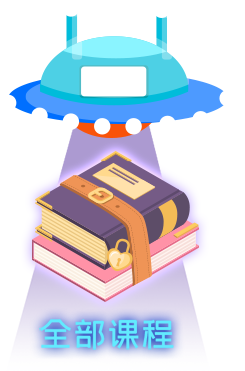
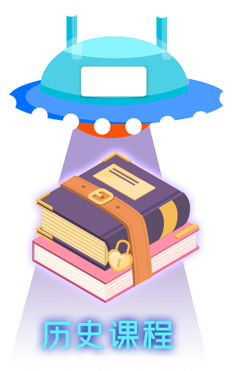
周末游戏加金币已到游戏内部加， 全部课程改为历史课程

diff --git a/cheerz/js/zhoumo-yx.js b/cheerz/js/zhoumo-yx.js
@@ -13,12 +13,13 @@ function startgame() {
 	var gamepara = localStorage.getItem("gpara");
 	glid = localStorage.getItem("glid");
 	gurl = localStorage.getItem("gurl");
+	addcoin(glid, gurl);
 
 	console.log(glid + " " + gurl);
 	// console.log("好饿的哈利 json string :", gamepara);
-	
+
 	var json = JSON.parse(gamepara);
-	if(json) {
+	if (json) {
 		worddatas = json;
 		wordcount = worddatas.length;
 	}
@@ -268,4 +269,14 @@ function leftsec(sec) {
 	leftm = leftm < 10 ? "0" + leftm : leftm;
 	lefts = lefts < 10 ? "0" + lefts : lefts;
 	return leftm + ":" + lefts; //返回倒计时的字符串
+}
+
+function addcoin(lid, url) {
+	// 加金币
+	var starttime = localStorage.getItem("gstart");
+	if(!starttime) return;
+	var cha = url + "_lid" + lid + "_" + starttime;
+	var coin = 20;
+	var memo = "_add" + coin;
+	addcointoserv(coin, cha, memo);
 }

diff --git a/cheerz/js/zhoumo-yx-sjss.js b/cheerz/js/zhoumo-yx-sjss.js
@@ -14,6 +14,7 @@ function startgame() {
 	var gamepara = localStorage.getItem("gpara");
 	glid = localStorage.getItem("glid");
 	gurl = localStorage.getItem("gurl");
+	addcoin(glid, gurl);
 
 	// console.log("神箭手彼德 json string :", gamepara);
 	
@@ -254,4 +255,14 @@ function leftsec(sec) {
 	leftm = leftm < 10 ? "0" + leftm : leftm;
 	lefts = lefts < 10 ? "0" + lefts : lefts;
 	return leftm + ":" + lefts; //返回倒计时的字符串
+}
+
+function addcoin(lid, url) {
+	// 加金币
+	var starttime = localStorage.getItem("gstart");
+	if(!starttime) return;
+	var cha = url + "_lid" + lid + "_" + starttime;
+	var coin = 20;
+	var memo = "_add" + coin;
+	addcointoserv(coin, cha, memo);
 }

diff --git a/cheerz/js/zhoumo-yx-ddp.js b/cheerz/js/zhoumo-yx-ddp.js
@@ -12,6 +12,7 @@ function startgame() {
 	var gamepara = localStorage.getItem("gpara");
 	glid = localStorage.getItem("glid");
 	gurl = localStorage.getItem("gurl");
+	addcoin(glid, gurl);
 
 	// console.log("魔法对对碰 json string :", gamepara);
 
@@ -334,4 +335,14 @@ function endgame() {
 	console.log("关闭游戏");
 	// jump 返回时无法重新加载
 	// jump("record", "zhoumo-yx-end.html");
+}
+
+function addcoin(lid, url) {
+	// 加金币
+	var starttime = localStorage.getItem("gstart");
+	if(!starttime) return;
+	var cha = url + "_lid" + lid + "_" + starttime;
+	var coin = 20;
+	var memo = "_add" + coin;
+	addcointoserv(coin, cha, memo);
 }

diff --git a/cheerz/js/zhoumo-yx-ylky.js b/cheerz/js/zhoumo-yx-ylky.js
@@ -14,6 +14,7 @@ function startgame() {
 	var gamepara = localStorage.getItem("gpara");
 	glid = localStorage.getItem("glid");
 	gurl = localStorage.getItem("gurl");
+	addcoin(glid, gurl);
 
 	// console.log("眼力大考验 json string :", gamepara);
 
@@ -262,4 +263,14 @@ function endgame() {
 	console.log("关闭游戏");
 	// jump 返回时无法重新加载
 	// jump("record", "zhoumo-yx-end.html");
+}
+
+function addcoin(lid, url) {
+	// 加金币
+	var starttime = localStorage.getItem("gstart");
+	if(!starttime) return;
+	var cha = url + "_lid" + lid + "_" + starttime;
+	var coin = 20;
+	var memo = "_add" + coin;
+	addcointoserv(coin, cha, memo);
 }

diff --git a/cheerz/zhoumo-xq.html b/cheerz/zhoumo-xq.html
@@ -134,13 +134,8 @@
 					bscore = parseInt($('#bestscore2').text());
 				}
 
-				// 加金币
-				var cha = gurl + "_lid" + lid + "_" + starttime;
-				var coin = 20;
-				var memo = "_add" + coin;
-				addcointoserv(coin, cha, memo);
-
 				// 跳转
+				localStorage.setItem("gstart", starttime);
 				localStorage.setItem("gpara", unescape(gpara));
 				localStorage.setItem("glid", lid);
 				localStorage.setItem("gurl", gurl);

diff --git a/cheerz/js/common.js b/cheerz/js/common.js
@@ -466,7 +466,7 @@ function addcointoserv(coin, cha, memo) {
 		type: 'post',
 		timeout: 10000,
 		success: function(data) {
-			console.log("add coin " + data);
+			console.log("add coin rst " + data.rst);
 			if (data.rst == 0) {} else if (data.rst == 1) {}
 		},
 		error: function(xhr, type, errorThrown) {
